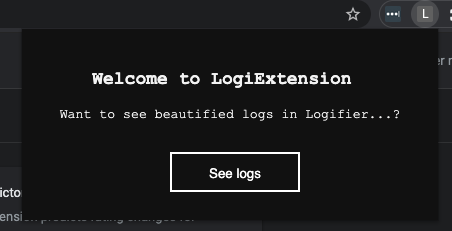
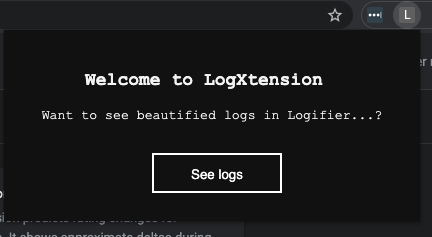
Fix extension name

diff --git a/chromeExtension/index.html b/chromeExtension/index.html
@@ -3,7 +3,7 @@
 <html lang="en">
   <head>
     <meta charset="utf-8" />
-    <title>LogExtension</title>
+    <title>LogXtension</title>
     <link rel="stylesheet" href="https://fonts.googleapis.com/css?family=Roboto:300,400,500,700&display=swap" />
     <link rel="stylesheet" href="https://fonts.googleapis.com/icon?family=Material+Icons" />
     <link rel="stylesheet" href="./main.css" />

diff --git a/chromeExtension/script.js b/chromeExtension/script.js
@@ -5,7 +5,7 @@ chrome.tabs.query({'active': true, 'lastFocusedWindow': true}, function (tabs) {
 });
 
 let textLength = 0;
-let text = 'Welcome to LogiExtension';
+let text = 'Welcome to LogXtension';
 
 function type() {
     let textChar = text.charAt(textLength++);
